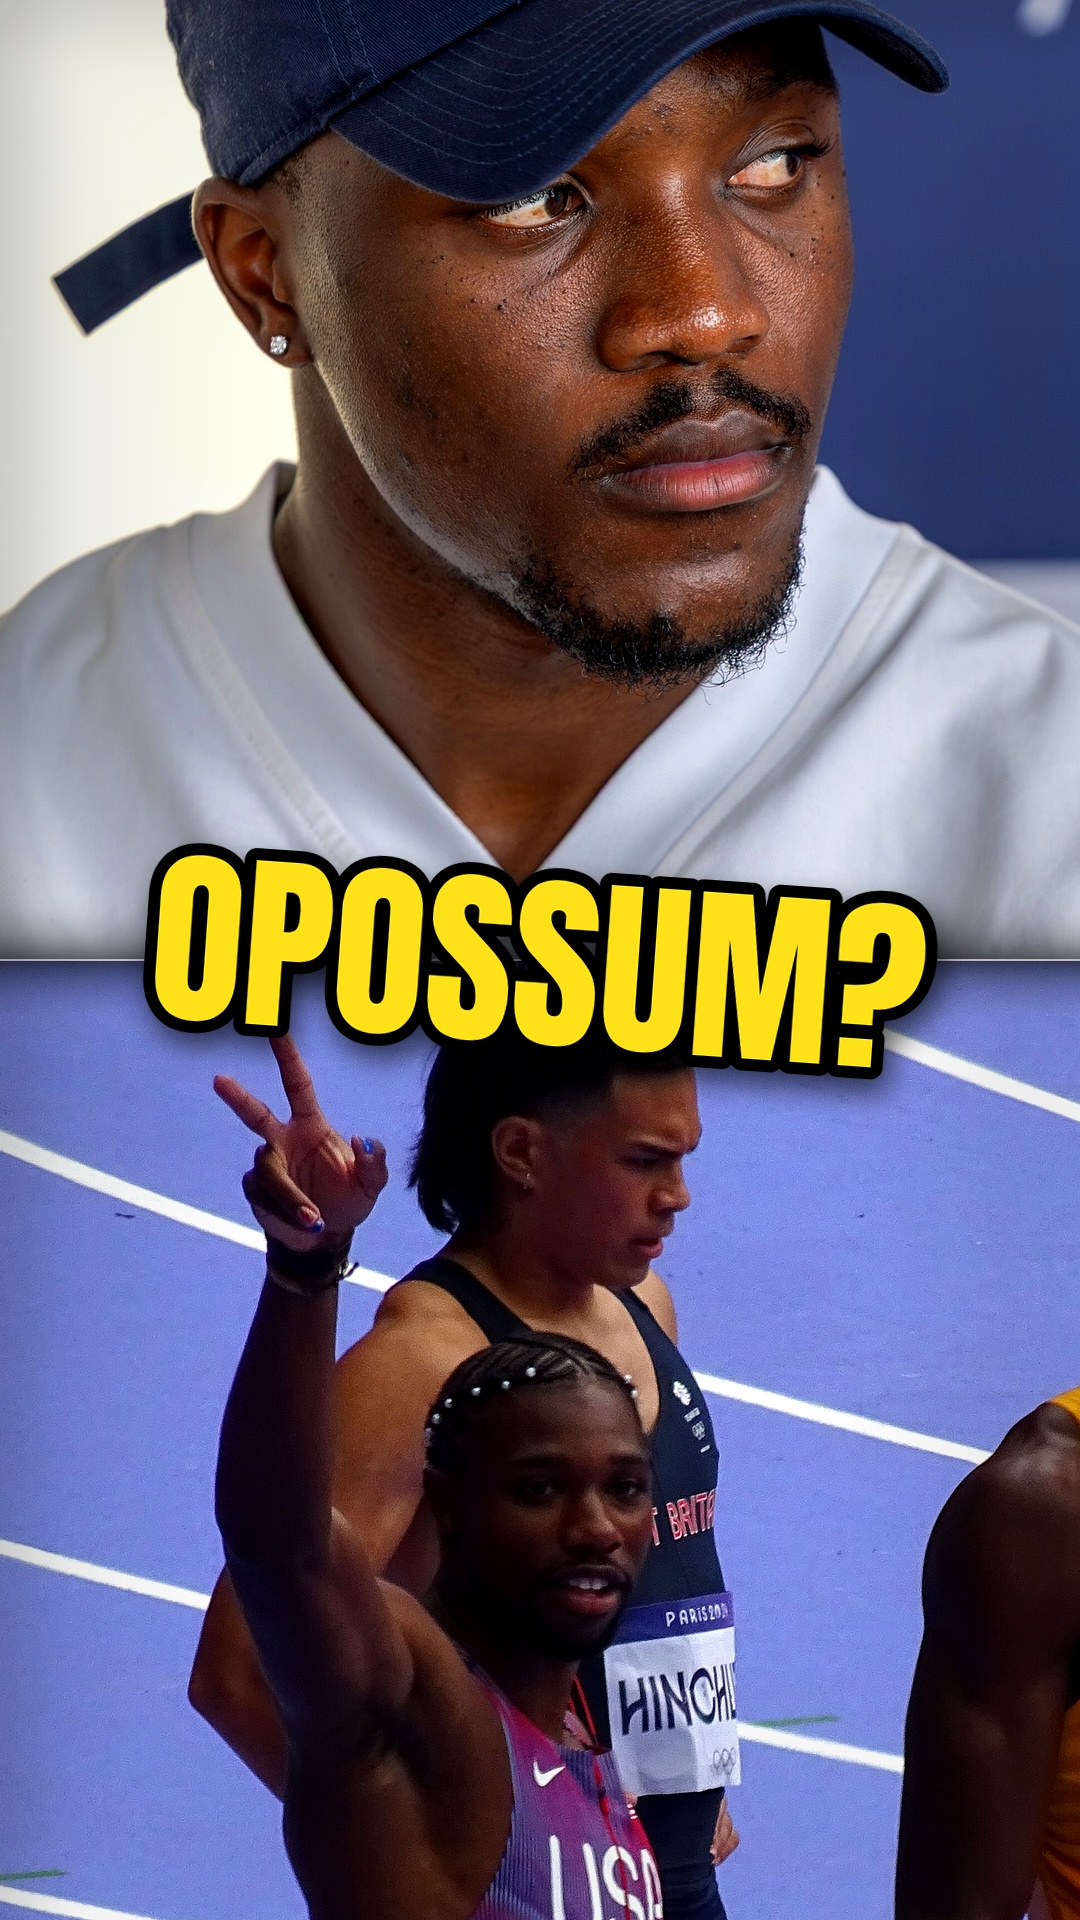
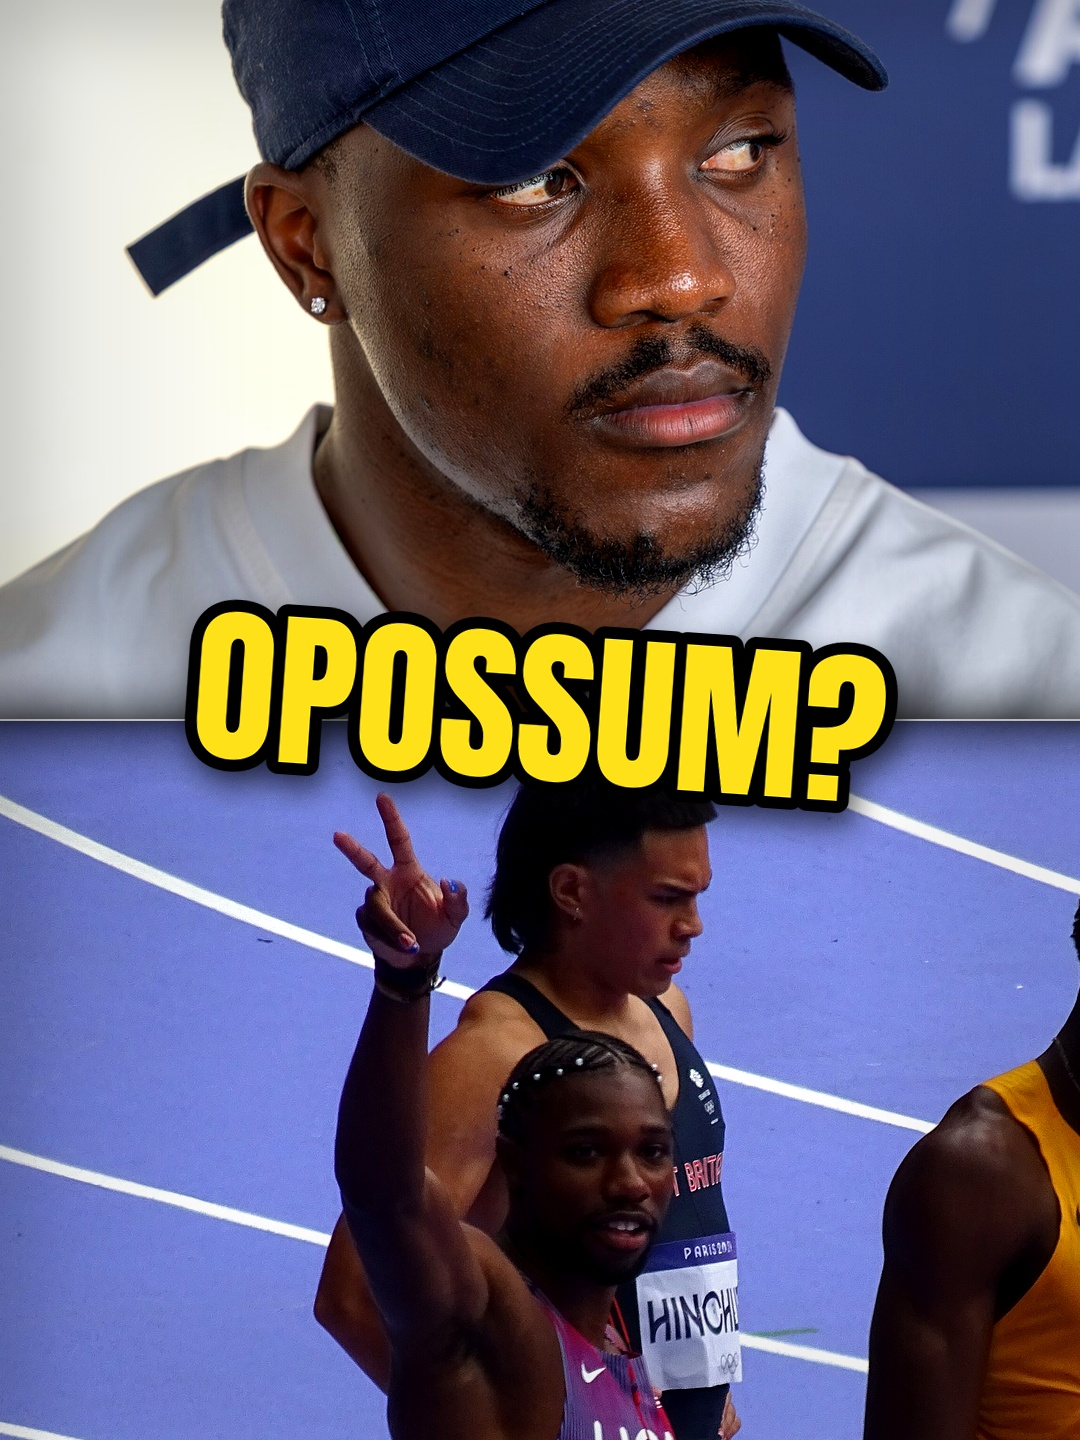
Thumbnails are 3:4 (1080x1440, TikTok grid cover); Tebogo/Lyles thumbnail remade
Claude-Session: https://claude.ai/code/session_01FEcSZyiLRg3t9cRq9AWGTK

diff --git a/projects/tebogo-lyles/thumbnail.py b/projects/tebogo-lyles/thumbnail.py
@@ -1,23 +1,23 @@
 from PIL import Image, ImageDraw, ImageFont, ImageEnhance, ImageFilter
 S='/tmp/claude-0/-home-user-Erin-Brown-/353a917a-eedc-5fa9-9c7e-7d1a29f0affb/scratchpad'
 F='/home/user/Erin-Brown-/editor/assets/fonts/'
-W,H=1080,1920; HALF=960
+W,H=1080,1440; HALF=720   # TikTok profile-grid cover is 3:4
 def crop_at(path,cx,cy,scale=1.0,w=W,h=HALF,bright=1.0):
     im=Image.open(path).convert('RGB')
     if scale!=1.0: im=im.resize((int(im.width*scale),int(im.height*scale)),Image.LANCZOS); cx*=scale; cy*=scale
     x=int(min(max(cx-w/2,0),im.width-w)); y=int(min(max(cy-h/2,0),im.height-h))
     im=im.crop((x,y,x+w,y+h)); im=ImageEnhance.Brightness(im).enhance(bright)
     im=ImageEnhance.Contrast(im).enhance(1.12); im=ImageEnhance.Color(im).enhance(1.08); return ImageEnhance.Sharpness(im).enhance(1.15)
-top=crop_at(f'{S}/raw4/ph/tebogo_press.jpg',930,1000)
-bot=crop_at(f'{S}/raw4/ph/lyles_paris_b.jpg',1125,875,0.8,bright=1.07)
+top=crop_at(f'{S}/raw4/ph/tebogo_press.jpg',930,930,0.85)
+bot=crop_at(f'{S}/raw4/ph/lyles_paris_b.jpg',1050,820,0.62,bright=1.07)
 c=Image.new('RGB',(W,H)); c.paste(top,(0,0)); c.paste(bot,(0,HALF))
 sh=Image.new('L',(W,140),0); d=ImageDraw.Draw(sh)
 for y in range(140): d.line([(0,y),(W,y)],fill=int(150*(1-abs(y-70)/70)**2.2))
 c.paste((0,0,0),(0,HALF-70),sh); ImageDraw.Draw(c).rectangle([0,HALF-1,W,HALF],fill=(200,200,200))
 v=Image.new('L',(W,H),0); dv=ImageDraw.Draw(v)
-for i in range(60): dv.rectangle([i*4,i*6,W-i*4,H-i*6],outline=int(110*(1-i/60)))
+for i in range(60): dv.rectangle([i*4,i*4,W-i*4,H-i*4],outline=int(110*(1-i/60)))
 c.paste((0,0,0),(0,0),v.filter(ImageFilter.GaussianBlur(40)))
-f=ImageFont.truetype(F+'Anton-Regular.ttf',190); t='OPOSSUM?'
+f=ImageFont.truetype(F+'Anton-Regular.ttf',170); t='OPOSSUM?'
 tw=ImageDraw.Draw(c).textlength(t,font=f)
 txt=Image.new('RGBA',(int(tw)+80,300),(0,0,0,0)); ImageDraw.Draw(txt).text((40,20),t,font=f,fill=(255,225,26),stroke_width=12,stroke_fill=(0,0,0))
 txt=txt.rotate(-4,resample=Image.BICUBIC,expand=True)

diff --git a/CLAUDE.md b/CLAUDE.md
@@ -125,7 +125,7 @@ This repo holds the editing setup for the owner's TikTok sports/track videos. Th
    - Keep it under about 70 characters so it isn't cut off in the Shorts feed. One emoji at most.
    - No claim the video doesn't back up.
    - Put it at the top of the project's `NOTES.md` and give it to the owner with the finished video.
-8. **Make a 9:16 thumbnail** (1080×1920 JPG) for every video, saved to `exports/thumbnails/<video>_thumb.jpg` and delivered to Dropbox with the video.
+8. **Make a 3:4 thumbnail** (1080×1440 JPG, the TikTok profile-grid cover size; the owner said 9:16 was too big) for every video, saved to `exports/thumbnails/<video>_thumb.jpg` and delivered to Dropbox with the video.
    - Simple and high quality, from real photos only: no AI-generated images, nothing that looks AI.
    - One or two strong faces or expressions (e.g. the two people in the conflict, top and bottom with the house soft seam), with photos used at native resolution and never enlarged, plus a light contrast/color grade.
    - Few words, if any: at most one or two in Anton (e.g. "OPOSSUM?").

diff --git a/projects/tebogo-lyles/NOTES.md b/projects/tebogo-lyles/NOTES.md
@@ -1,7 +1,7 @@
 # Tebogo vs Lyles: "stop playing opossum" (Nov 2026)
 
 **Title (YouTube Shorts / TikTok):** Noah Lyles Just Exposed the Olympic Champion's Pattern 👀
-Thumbnail: `exports/thumbnails/tebogo_lyles_thumb.jpg` (Tebogo's side-eye from the Athletissima 2026 press conference on top, Lyles' peace sign at Paris 2024 below, "OPOSSUM?" on the seam; made by `thumbnail.py`).
+Thumbnail (3:4, 1080×1440): `exports/thumbnails/tebogo_lyles_thumb.jpg` (Tebogo's side-eye from the Athletissima 2026 press conference on top, Lyles' peace sign at Paris 2024 below, "OPOSSUM?" on the seam; made by `thumbnail.py`).
 Alternates:
 - Tebogo Called Out the Field… Then Lyles Clapped Back
 - "Stop Playing Opossum" — Noah Lyles Goes After Tebogo
